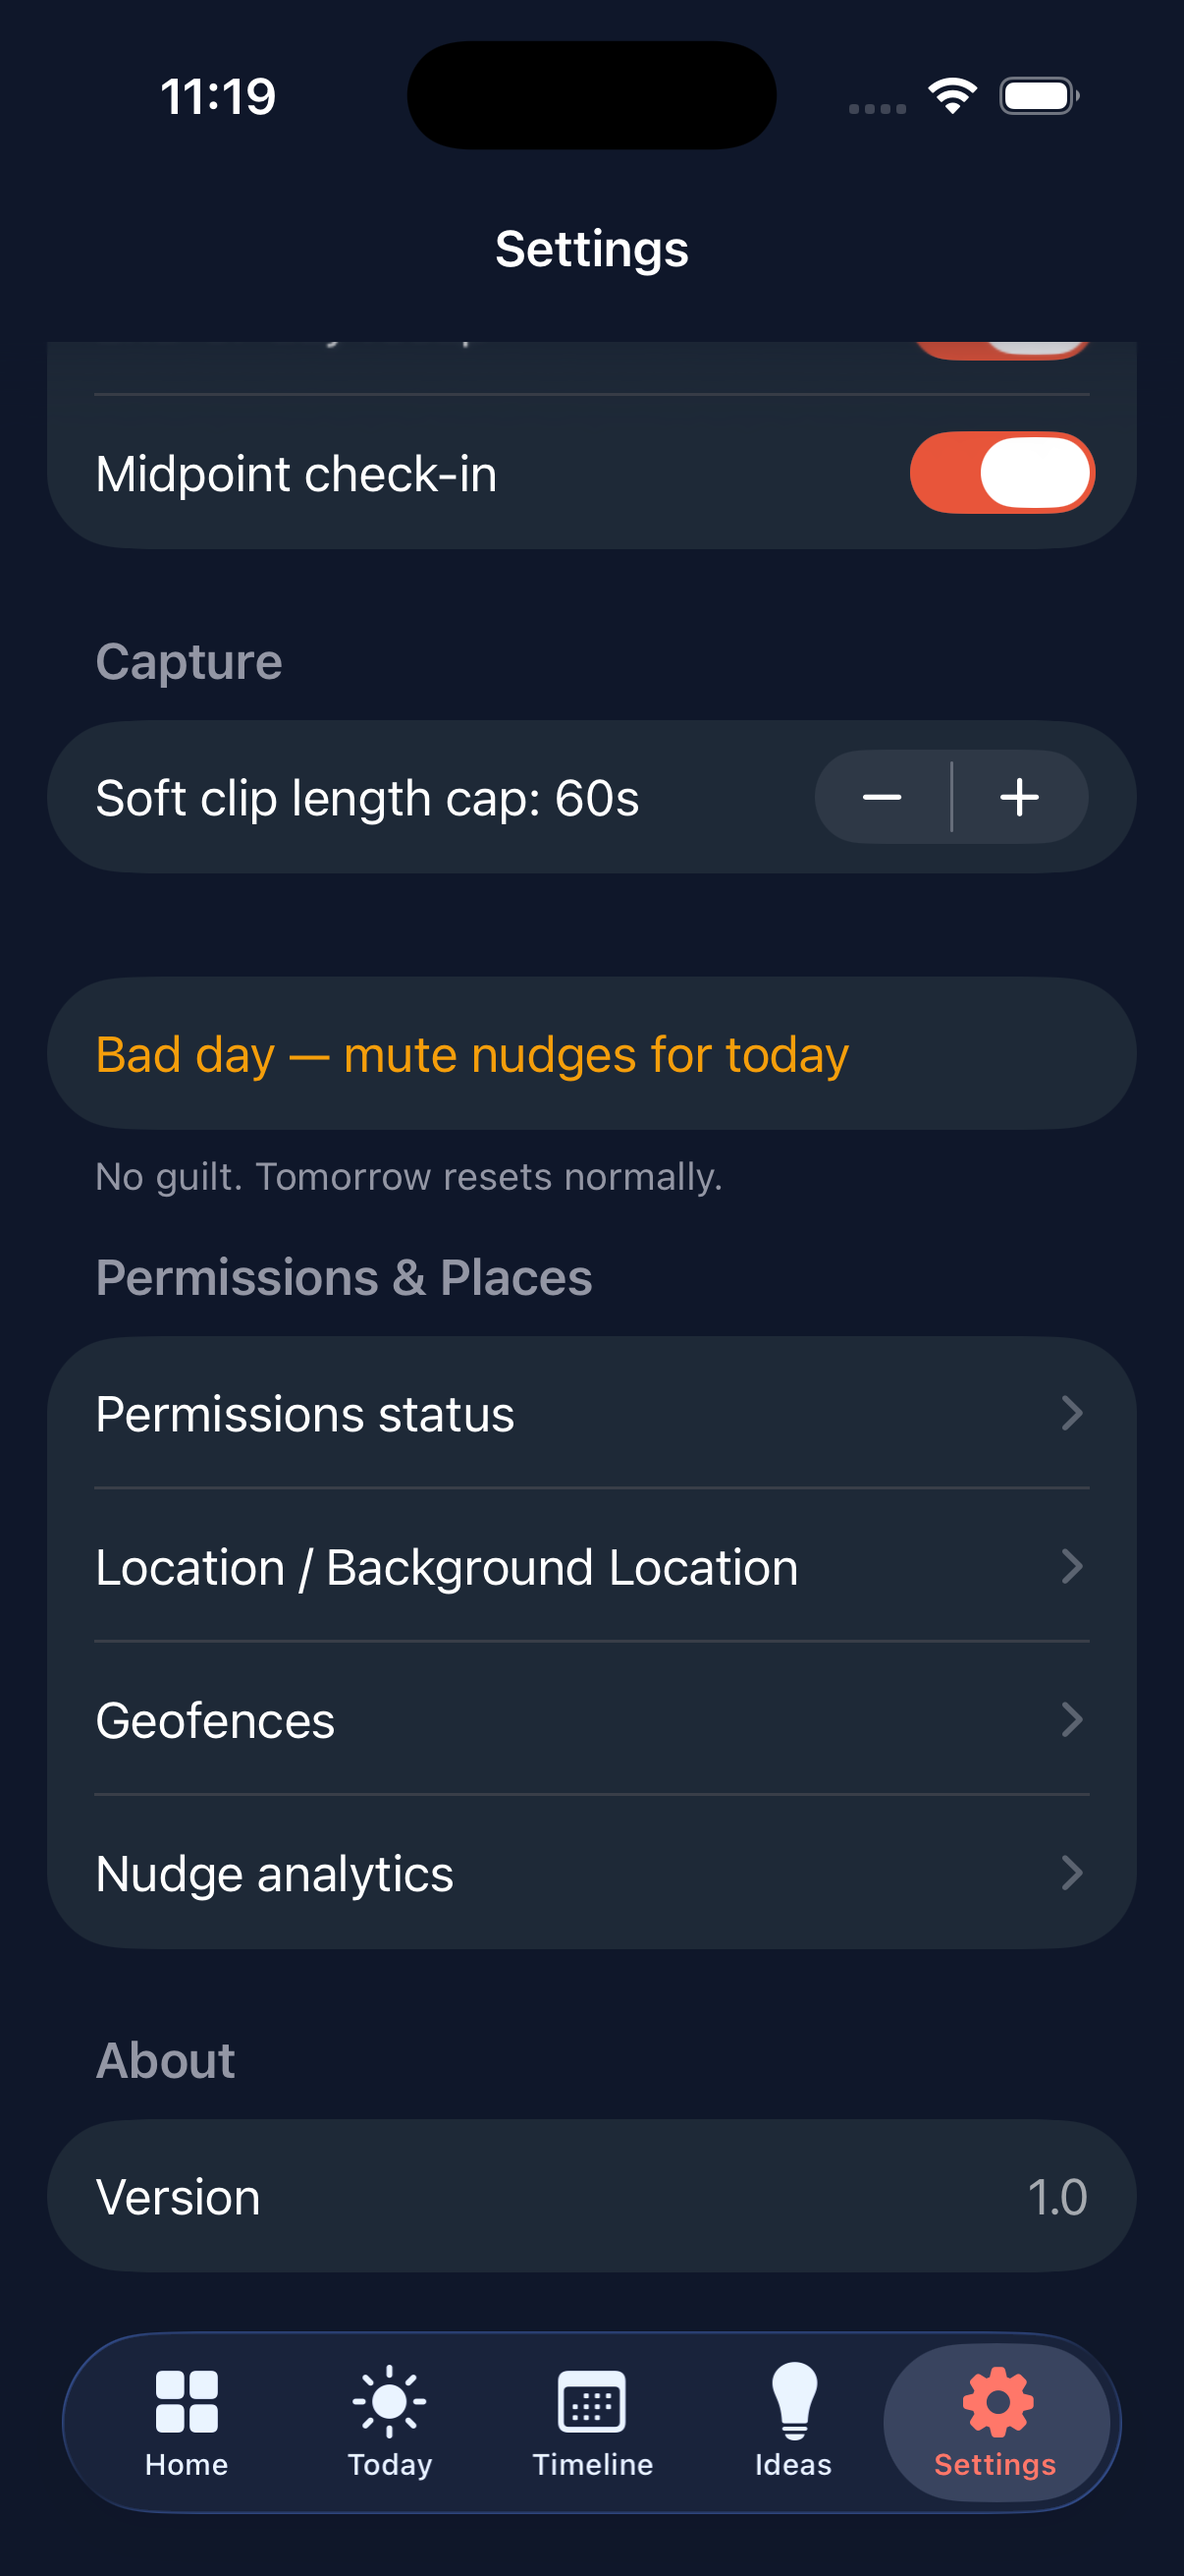
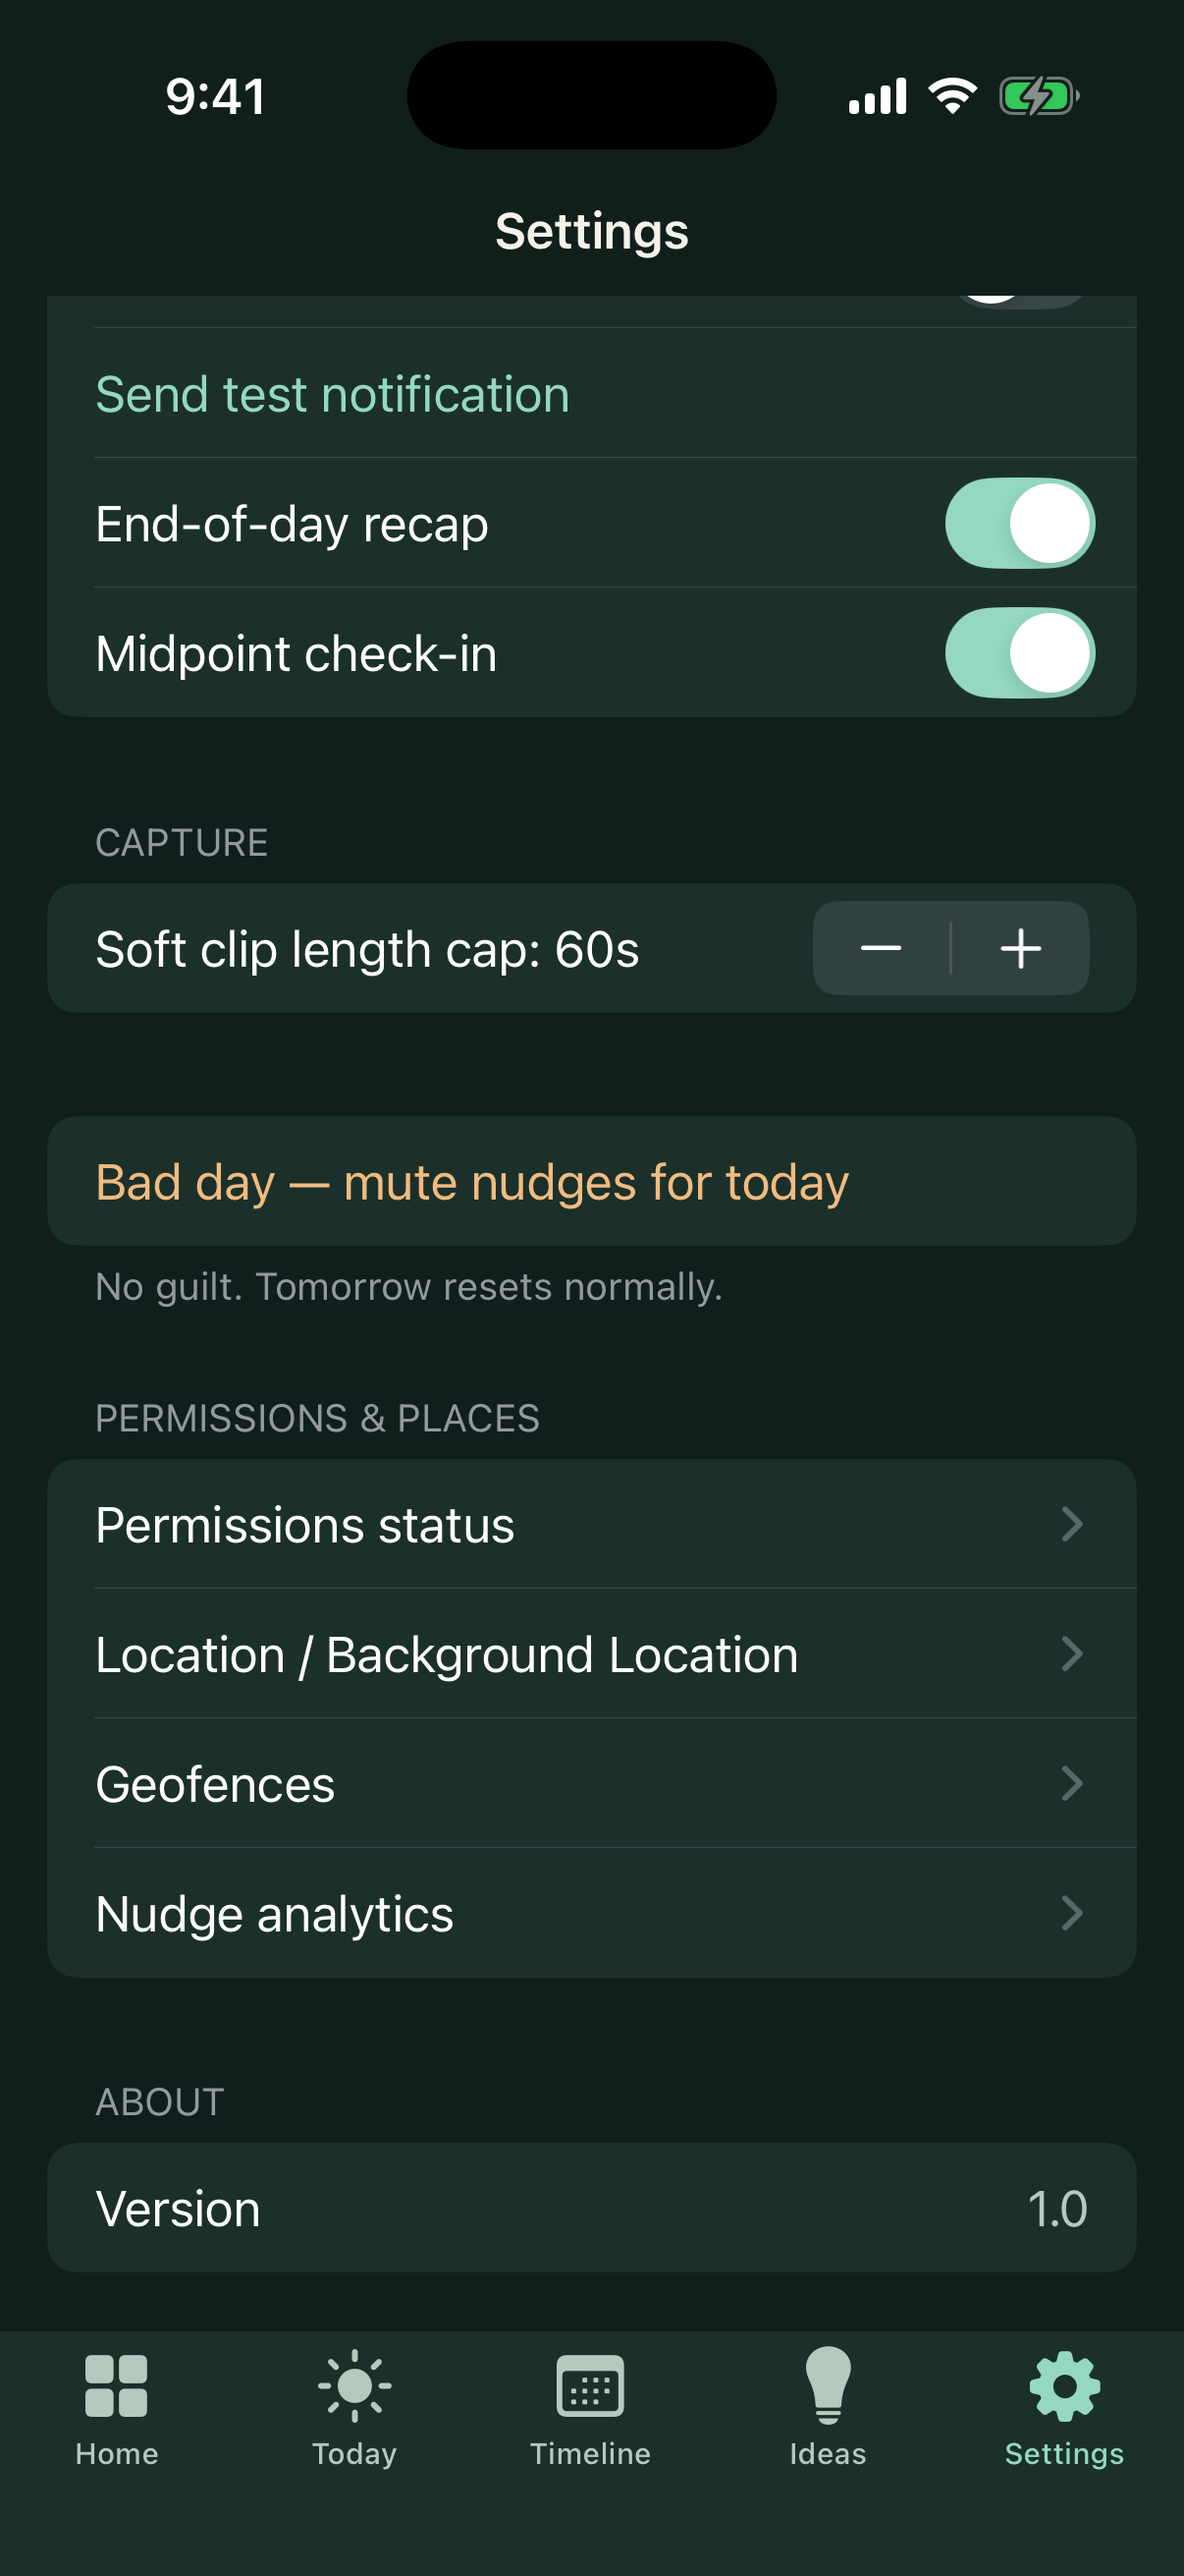
Generate README screenshots automatically; update README (#38)
* Add screenshot mode, capture script and Screenshots workflow; update README

-ScreenshotMode launches with seeded demo data in an in-memory store and
skips onboarding/background services. scripts/capture_screenshots.sh builds
for the Simulator and saves the five README images; the Screenshots workflow
runs it on pushes to the screenshots branch and commits the results.

Claude-Session: https://claude.ai/code/session_011e1eqnFVB8mfxKnkJxwQrr

* Update README screenshots [skip ci]

* Screenshots: seed today's clips relative to now, pin app to an afternoon time zone

Claude-Session: https://claude.ai/code/session_011e1eqnFVB8mfxKnkJxwQrr

* Update README screenshots [skip ci]

---------

diff --git a/vlognudgee/Shared/ScreenshotMode.swift b/vlognudgee/Shared/ScreenshotMode.swift
@@ -1,0 +1,79 @@
+//
+//  ScreenshotMode.swift
+//  VlogNudge
+//
+//  Launch-argument driven demo mode used by scripts/capture_screenshots.sh.
+//  `-ScreenshotMode` skips onboarding and background services, swaps in an
+//  in-memory store seeded with sample clips, and `-ScreenshotTab N` /
+//  `-ScreenshotSettingsPlaces` pick the screen to capture.
+//
+
+import Foundation
+import SwiftData
+
+enum ScreenshotMode {
+    private static let arguments = ProcessInfo.processInfo.arguments
+
+    static let isActive = arguments.contains("-ScreenshotMode")
+
+    static var initialTab: Int? {
+        guard isActive,
+              let index = arguments.firstIndex(of: "-ScreenshotTab"),
+              arguments.indices.contains(index + 1) else { return nil }
+        return Int(arguments[index + 1])
+    }
+
+    static var scrollToPlaces: Bool {
+        isActive && arguments.contains("-ScreenshotSettingsPlaces")
+    }
+
+    /// Next-nudge time shown on Today, since no notifications are scheduled.
+    static var sampleNextNudge: Date { Date().addingTimeInterval(47 * 60) }
+
+    @MainActor
+    static func seed(_ context: ModelContext) {
+        let calendar = Calendar.current
+        let today = calendar.startOfDay(for: .now)
+
+        let albums = [
+            VlogAlbum(name: AppConstants.photosAlbumName, systemIcon: "video.fill",
+                      colorHex: "FF3B30", isDefault: true),
+            VlogAlbum(name: "Tokyo Trip", systemIcon: "airplane", colorHex: "007AFF"),
+            VlogAlbum(name: "Gym Days", systemIcon: "figure.run", colorHex: "34C759")
+        ]
+        for (index, album) in albums.enumerated() {
+            album.sortOrder = index
+            context.insert(album)
+        }
+
+        // Relative to now so "last clip … ago" reads sensibly whenever it runs.
+        let todayPrompts: [(minutesAgo: Int, prompt: String)] = [
+            (190, "Morning coffee ritual"),
+            (95, "You just got to the office — quick clip?"),
+            (25, "What's for lunch?")
+        ]
+        for item in todayPrompts {
+            let date = max(today, Date().addingTimeInterval(-Double(item.minutesAgo) * 60))
+            context.insert(Clip(recordedAt: date, duration: 12, photosAssetID: "",
+                                topicPrompt: item.prompt))
+        }
+
+        // Scatter clips across the past few weeks so the Timeline has texture.
+        for dayOffset in [1, 2, 3, 5, 6, 8, 9, 12, 13, 15, 16, 19, 20, 22] {
+            guard let day = calendar.date(byAdding: .day, value: -dayOffset, to: today) else { continue }
+            for hour in [9, 14, 19].prefix(1 + dayOffset % 3) {
+                let date = calendar.date(bySettingHour: hour, minute: 20, second: 0, of: day) ?? day
+                context.insert(Clip(recordedAt: date, duration: 15, photosAssetID: "",
+                                    albumName: dayOffset % 4 == 0 ? "Gym Days" : AppConstants.photosAlbumName))
+            }
+        }
+
+        for text in ["Film the sunset walk home", "Desk setup tour", "Cooking dinner time-lapse"] {
+            context.insert(IdeaMemo(text: text))
+        }
+
+        context.insert(Geofence(name: "Home", latitude: 37.3349, longitude: -122.0090))
+        context.insert(UserSettings())
+        try? context.save()
+    }
+}

diff --git a/vlognudgee/Features/Settings/SettingsView.swift b/vlognudgee/Features/Settings/SettingsView.swift
@@ -21,6 +21,8 @@ struct SettingsView: View {
     @Environment(\.modelContext) private var modelContext
     @Query private var settingsArray: [UserSettings]
 
+    private static let placesAnchor = "settings-places"
+
     private var settings: UserSettings {
         if let existing = settingsArray.first { return existing }
         let new = UserSettings()
@@ -31,22 +33,29 @@ struct SettingsView: View {
 
     var body: some View {
         NavigationStack {
-            Form {
-                frequencySection
-                scheduleSection
-                customScheduleSection
-                quietHoursSection
-                contextSignalsSection
-                notificationsSection
-                captureSection
-                badDaySection
-                permissionsSection
-                aboutSection
+            ScrollViewReader { proxy in
+                Form {
+                    frequencySection
+                    scheduleSection
+                    customScheduleSection
+                    quietHoursSection
+                    contextSignalsSection
+                    notificationsSection
+                    captureSection
+                    badDaySection
+                    permissionsSection
+                    aboutSection
+                }
+                .scrollContentBackground(.hidden)
+                .background(VNColor.dominant)
+                .tint(VNColor.accent)
+                .navigationTitle("Settings")
+                .task {
+                    guard ScreenshotMode.scrollToPlaces else { return }
+                    try? await Task.sleep(for: .milliseconds(300))
+                    proxy.scrollTo(Self.placesAnchor, anchor: .top)
+                }
             }
-            .scrollContentBackground(.hidden)
-            .background(VNColor.dominant)
-            .tint(VNColor.accent)
-            .navigationTitle("Settings")
         }
     }
 
@@ -208,6 +217,7 @@ struct SettingsView: View {
                     value: Binding(get: { settings.softClipLengthCap },
                                    set: { settings.softClipLengthCap = $0; save() }),
                     in: 15...300, step: 5)
+                .id(Self.placesAnchor)
         }
         .listRowBackground(VNColor.secondary)
     }

diff --git a/vlognudgee/RootView.swift b/vlognudgee/RootView.swift
@@ -8,7 +8,7 @@ import SwiftUI
 struct RootView: View {
     @Environment(AppState.self) private var appState
     @Environment(\.scenePhase) private var scenePhase
-    @State private var selectedTab: Int = 0
+    @State private var selectedTab: Int = ScreenshotMode.initialTab ?? 0
     @State private var showCapture = false
 
     @AppStorage("hasCompletedOnboarding",
@@ -54,7 +54,7 @@ struct RootView: View {
 
     var body: some View {
         Group {
-            if hasCompletedOnboarding {
+            if hasCompletedOnboarding || ScreenshotMode.isActive {
                 mainTabs
             } else {
                 OnboardingFlow()

diff --git a/vlognudgee/Shared/SharedModelContainer.swift b/vlognudgee/Shared/SharedModelContainer.swift
@@ -24,7 +24,10 @@ enum SharedModelContainer {
         ])
 
         let config: ModelConfiguration
-        if let groupURL = FileManager.default
+        if ScreenshotMode.isActive {
+            config = ModelConfiguration(schema: schema, isStoredInMemoryOnly: true,
+                                        cloudKitDatabase: .none)
+        } else if let groupURL = FileManager.default
             .containerURL(forSecurityApplicationGroupIdentifier: AppConstants.appGroupID) {
             config = ModelConfiguration(
                 schema: schema,

diff --git a/vlognudgee/VlogNudgeApp.swift b/vlognudgee/VlogNudgeApp.swift
@@ -36,6 +36,11 @@ struct VlogNudgeApp: App {
                     }
                 }
                 .task {
+                    if ScreenshotMode.isActive {
+                        ScreenshotMode.seed(modelContainer.mainContext)
+                        return
+                    }
+
                     // Register categories on every launch (safe to call repeatedly)
                     NotificationService.shared.registerCategories()
 

diff --git a/vlognudgee/Features/Today/TodayView.swift b/vlognudgee/Features/Today/TodayView.swift
@@ -250,7 +250,7 @@ struct TodayView: View {
             }
             .sorted()
 
-        nextNudgeDate = vlogNudges.first
+        nextNudgeDate = ScreenshotMode.isActive ? ScreenshotMode.sampleNextNudge : vlogNudges.first
 
         let defaults = UserDefaults(suiteName: AppConstants.appGroupID)
         defaults?.set(todayClips.count, forKey: "clipsToday")

diff --git a/README.md b/README.md
@@ -22,6 +22,8 @@ VlogNudge watches lightweight, on-device context signals (location, motion, cale
   <img src="docs/screenshots/settings-places.png" width="180" alt="Settings — capture, bad-day mute, permissions &amp; places">
 </p>
 
+<sub>Screenshots are generated from seeded demo data. See <a href="#regenerating-screenshots">Regenerating screenshots</a>.</sub>
+
 ## Engineering highlights
 
 - **A pure, deterministic nudge engine.** [`NudgeScorer`](vlognudgee/Services/NudgeScorer.swift) is a side-effect-free function — `(context, settings, history) → decision` — that's trivial to reason about and test. Scheduling, notifications, and persistence are kept strictly separate from the decision logic.
@@ -110,6 +112,19 @@ The project uses Xcode's **file-system synchronized folders**: every file under 
 4. Build and run on device, then walk through onboarding (camera/mic/photos/notifications are required; motion/location/calendar/health are optional but make the nudges smart).
 
 More detail — full capability list, permission strings, and Xcode troubleshooting — is in [`docs/SETUP.md`](docs/SETUP.md). Common user questions (how nudges decide, privacy, custom schedule, permissions) are answered in [`docs/FAQ.md`](docs/FAQ.md).
+
+### CI & releases
+
+- **CI** ([`ci.yml`](.github/workflows/ci.yml)) builds the app and runs the unit tests on an iOS Simulator for every push and pull request.
+- **Xcode Cloud** archives `main` and uploads it to TestFlight. To upload from a Mac instead, run `fastlane beta` for TestFlight or `fastlane release` for App Store Connect (see [`fastlane/`](fastlane)).
+- **App Store readiness:** privacy manifests (`PrivacyInfo.xcprivacy`) for the app and widget, matching build numbers across targets, and `ITSAppUsesNonExemptEncryption = NO`.
+
+### Regenerating screenshots
+
+With the `-ScreenshotMode` launch argument, the app skips onboarding and background services, then loads sample clips, albums, and ideas into an in-memory store. Your real data is never touched.
+
+- **On a Mac:** `scripts/capture_screenshots.sh [simulator-udid]` builds for the Simulator, fixes the status bar at 9:41, and writes the five PNGs to [`docs/screenshots/`](docs/screenshots).
+- **In CI:** push to the `screenshots` branch, or start the **Screenshots** workflow ([`screenshots.yml`](.github/workflows/screenshots.yml)) by hand. It runs the same script on a macOS runner and commits any changed images back to the branch. Merge that branch to update the README.
 
 ## Design notes
 

diff --git a/docs/screenshots/README.md b/docs/screenshots/README.md
@@ -1,12 +1,13 @@
 # Screenshots
 
-The main README embeds the five images below. Add the PNGs here with these
-exact names (portrait device captures, e.g. iPhone 16):
+The main README embeds the five images below. To regenerate them, run
+`scripts/capture_screenshots.sh` on a Mac, or push to the `screenshots` branch
+so the **Screenshots** workflow captures and commits them.
 
-| File | Screen |
-|------|--------|
-| `today.png` | Today — next nudge + daily clip progress |
-| `home.png` | Home — progress ring + albums |
-| `timeline.png` | Timeline — calendar of captured clips |
-| `settings.png` | Settings — frequency, active window, quiet hours |
-| `settings-places.png` | Settings — capture, bad-day mute, permissions & places |
+| File | Screen | Launch arguments |
+|------|--------|------------------|
+| `today.png` | Today — next nudge + daily clip progress | `-ScreenshotMode -ScreenshotTab 1` |
+| `home.png` | Home — progress ring + albums | `-ScreenshotMode -ScreenshotTab 0` |
+| `timeline.png` | Timeline — calendar of captured clips | `-ScreenshotMode -ScreenshotTab 2` |
+| `settings.png` | Settings — frequency, active window, quiet hours | `-ScreenshotMode -ScreenshotTab 4` |
+| `settings-places.png` | Settings — capture, bad-day mute, permissions & places | `-ScreenshotMode -ScreenshotTab 4 -ScreenshotSettingsPlaces` |
